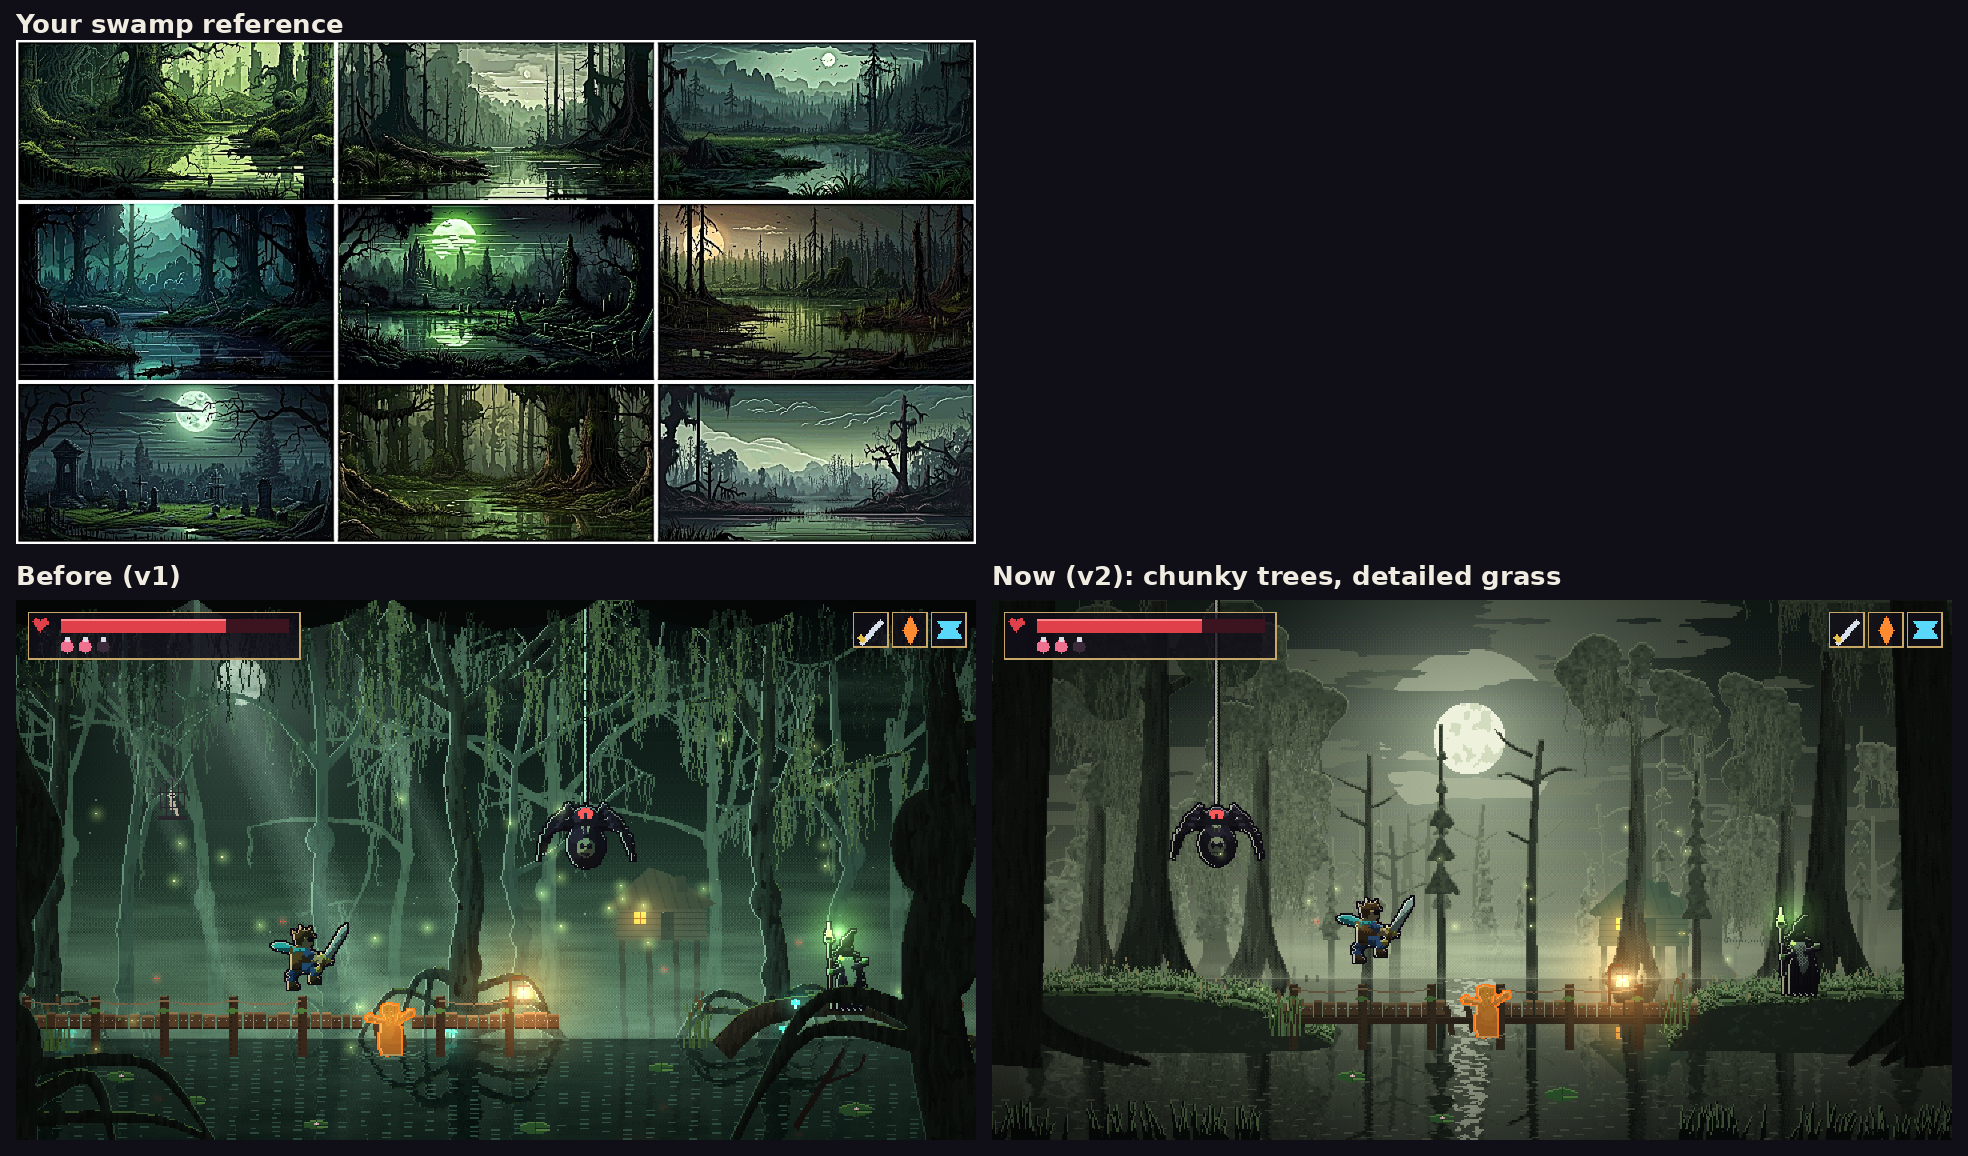
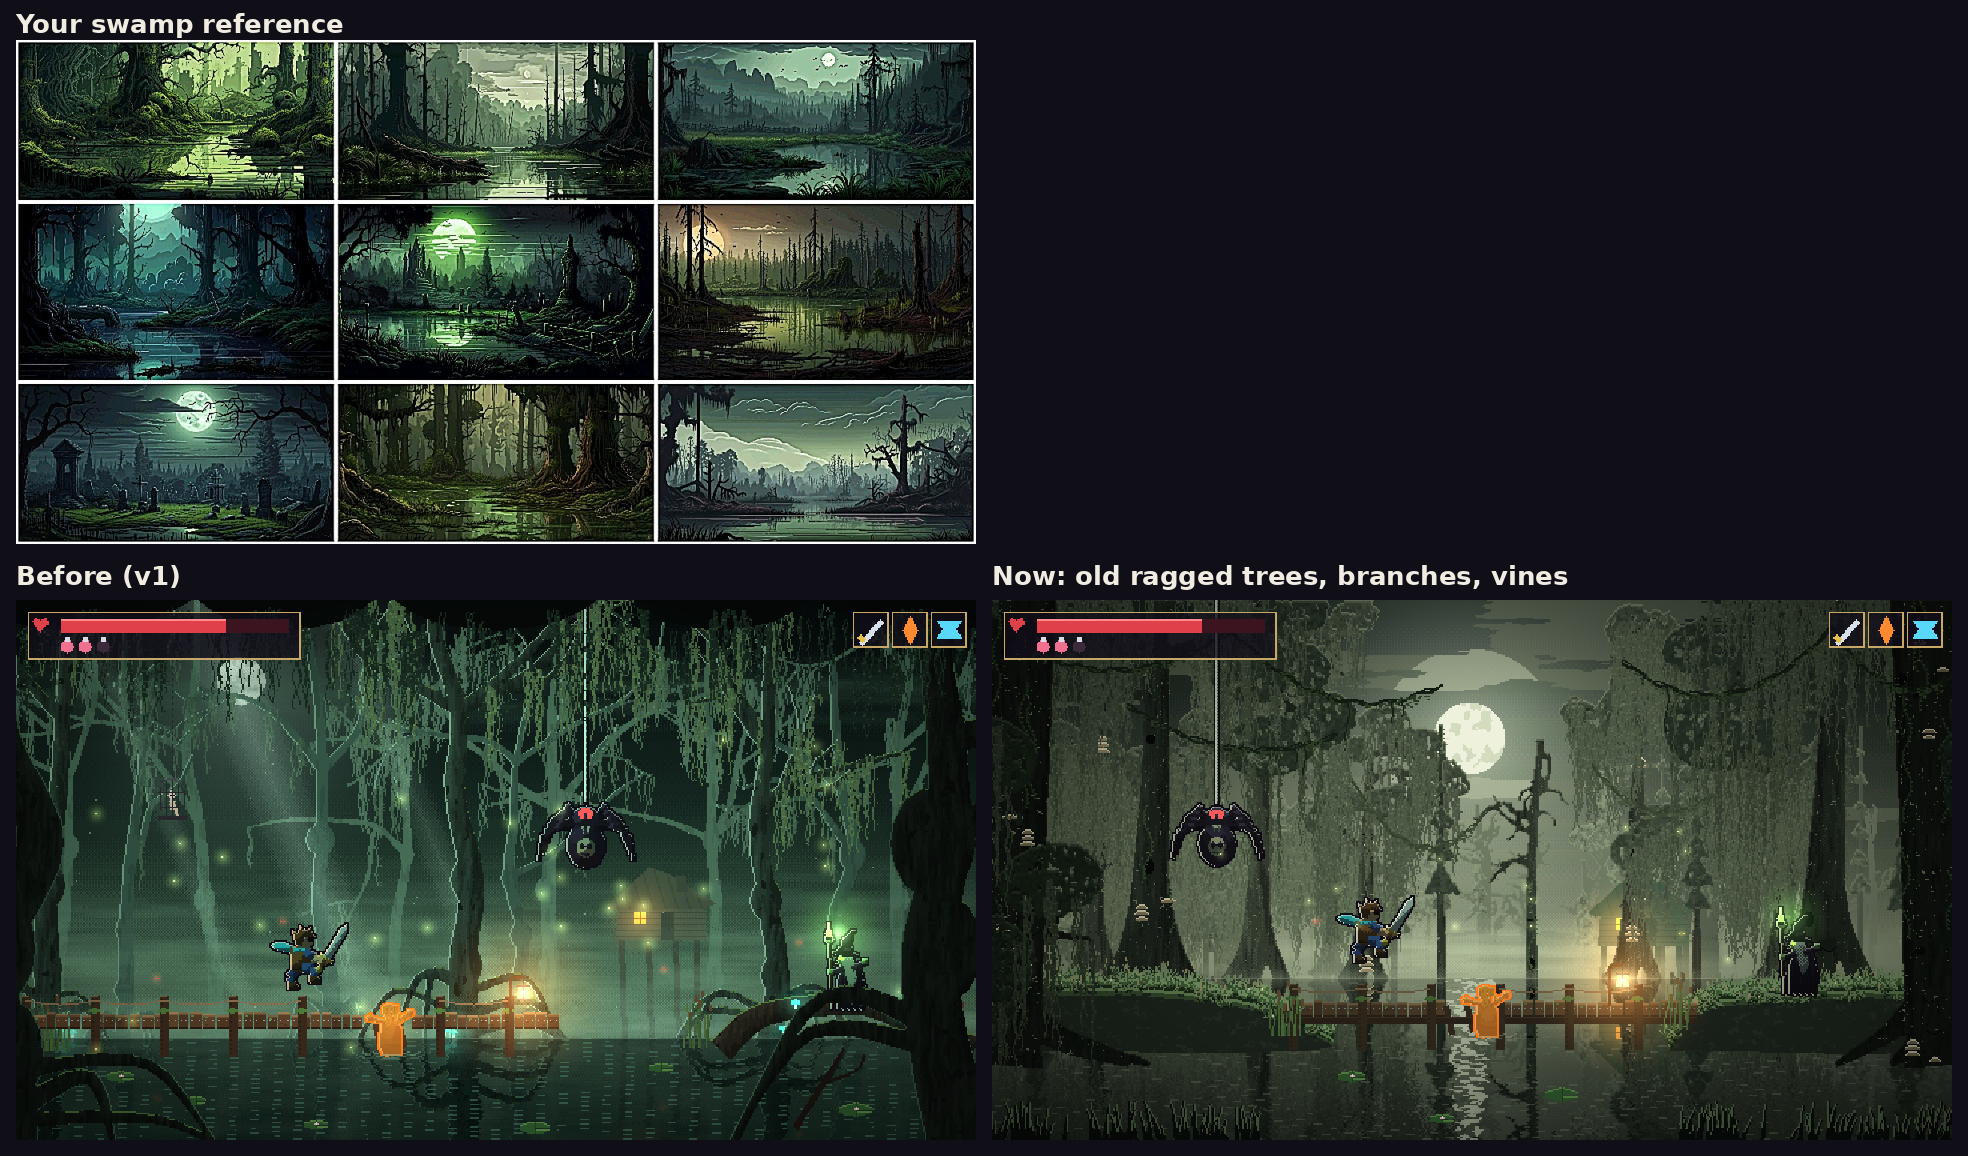
ART13b: swamp example, more crooked branches, ragged crowns, old trunks (knots, burls, shelf mushrooms, lichen), lianas and ivy
Claude-Session: https://claude.ai/code/session_018E1RbT7Agev2Psz4WcAtF7

Changed region(s): [[0.4959, 0.4671, 0.9919, 0.9031], [0.9609, 0.5917, 0.9919, 0.6228], [0.9299, 0.9031, 0.9609, 0.9343]]

diff --git a/tools/art/final_swamp.py b/tools/art/final_swamp.py
@@ -61,66 +61,177 @@ def pine(x, base, h, w, rng):
     return trunk, clumps
 
 
+def crooked(S, x, y, ang, ln, wd, depth, rng, tips, kink=0.35):
+    """A crooked old branch: bends at every joint, thins out, forks into twigs; records the tips (for clumps, moss)."""
+    pts = [(x, y)]
+    a = ang
+    for k in range(4):
+        a += rng.normal(0, kink)
+        x, y = x + math.cos(a) * ln / 4, y + math.sin(a) * ln / 4
+        pts.append((x, y))
+    S.append(taper(pts, max(1.0, wd), max(0.8, wd * 0.35), 4))
+    tips.append((x, y))
+    if depth > 0:
+        for _ in range(int(rng.integers(2, 4))):
+            j = int(rng.integers(1, 4))
+            crooked(S, pts[j][0], pts[j][1], a + rng.choice([-1, 1]) * rng.uniform(0.35, 1.0) - 0.15, ln * rng.uniform(0.45, 0.7),
+                    wd * 0.55, depth - 1, rng, tips, kink)
+    elif rng.random() < 0.5:                                     # a dead twig flicking off the end
+        S.append(taper([(x, y), (x + math.cos(a + 0.6) * 4, y + math.sin(a + 0.6) * 4)], 1.0, 0.8, 2))
+
+
+def stubs(S, x, base, h, w, rng, n):
+    """Broken-off branch stumps along an old trunk."""
+    for _ in range(n):
+        y = base - h * rng.uniform(0.2, 0.85)
+        sd = rng.choice([-1, 1])
+        ln = w * rng.uniform(0.6, 1.4)
+        S.append(taper([(x, y), (x + sd * ln, y - ln * rng.uniform(0.1, 0.6))], w * rng.uniform(0.25, 0.4), w * 0.18, 2))
+
+
 def snag(x, base, h, w, rng):
-    """A dead tree: a tall bare trunk, a broken top and a few short stubby branches."""
+    """A dead tree: a tall bare trunk, a broken top, crooked dead branches and stumps."""
     S = [taper([(x, base + 2), (x + rng.normal(0, 1.2), base - h * 0.5), (x + rng.normal(0, 2.0), base - h)], w, max(1.0, w * 0.4), 4)]
-    for k in range(int(rng.integers(2, 5))):
-        y = base - h * rng.uniform(0.45, 0.95)
-        s = rng.choice([-1, 1])
-        ln = rng.uniform(4, 12) * (w / 3 + 0.6)
-        S.append(taper([(x, y), (x + s * ln * 0.6, y - ln * 0.3), (x + s * ln, y - ln * rng.uniform(0.2, 0.8))], max(1.0, w * 0.4), 0.8, 3))
+    tips = []
+    for k in range(int(rng.integers(3, 6))):
+        y = base - h * rng.uniform(0.4, 0.95)
+        sd = rng.choice([-1, 1])
+        crooked(S, x, y, -math.pi / 2 + sd * rng.uniform(0.6, 1.3), h * rng.uniform(0.12, 0.25), max(1.2, w * 0.45), 1, rng, tips, 0.5)
+    stubs(S, x, base, h, w, rng, 2)
     return S
 
 
 def cypress(x, base, h, w, rng):
-    """A bald cypress: a trunk flaring wide at the water (buttress), knees around it, a ragged crown of clumps on a few
-    upswept limbs, moss hanging from the clumps."""
+    """An old bald cypress: a trunk flaring wide at the water, knees around it, many crooked limbs and twigs, a ragged
+    crown of clumps with gaps, moss hanging everywhere."""
     trunk = [taper([(x - w * 1.6, base + 3), (x - w * 0.5, base - h * 0.12), (x, base - h * 0.5), (x + rng.normal(0, w * 0.2), base - h)],
                    w * 2.6, w * 0.5, 6)]
     trunk.append(taper([(x + w * 1.6, base + 3), (x + w * 0.4, base - h * 0.14), (x, base - h * 0.4)], w * 1.2, w * 0.4, 4))
     for k in range(int(rng.integers(2, 5))):                     # cypress knees poking out of the water
         kx = x + rng.uniform(-w * 4, w * 4)
         trunk.append(taper([(kx, base + 3), (kx + rng.normal(0, 0.5), base - rng.uniform(2, 6))], rng.uniform(2, 3.4), 1, 2))
-    clumps, anchors = [], []
-    for k in range(int(rng.integers(3, 6))):
-        t = rng.uniform(0.55, 1.0)
+    stubs(trunk, x, base, h, w, rng, int(rng.integers(2, 5)))
+    clumps, anchors, tips = [], [], []
+    for k in range(int(rng.integers(5, 9))):
+        t = rng.uniform(0.4, 1.0)
         y = base - h * t
-        s = rng.choice([-1, 1])
-        ln = w * rng.uniform(2.5, 6)
-        ex, ey = x + s * ln, y - ln * rng.uniform(0.3, 0.8)
-        trunk.append(taper([(x, y + 4), (x + s * ln * 0.5, y - ln * 0.2), (ex, ey)], w * 0.65, 1.8, 4))
-        # an irregular crown: several small clumps scattered along the limb, not one umbrella
-        for j in range(int(rng.integers(3, 6))):
-            tt = rng.uniform(0.35, 1.0)
-            cx_ = x + s * ln * tt + rng.normal(0, w * 0.6)
-            cy_ = y + 2 - ln * (0.2 + 0.4 * tt) + rng.normal(0, w * 0.8)
-            r = w * rng.uniform(1.0, 2.0)
-            clumps.append(ell(cx_, cy_, r * rng.uniform(1.0, 1.5), r, rng.uniform(-30, 30), 14))
-            anchors += [(cx_ + rng.uniform(-r, r), cy_ + r * 0.6) for _ in range(3)]
-    for j in range(int(rng.integers(3, 6))):                     # the top: a ragged spire of clumps
+        sd = rng.choice([-1, 1])
+        crooked(trunk, x, y, -math.pi / 2 + sd * rng.uniform(0.5, 1.35), w * rng.uniform(3, 7), w * 0.6, 2, rng, tips)
+    for (tx, ty) in tips:                                        # ragged clumps on some branch ends, bare twigs on others
+        anchors.append((tx, ty + 1))
+        if rng.random() < 0.6:
+            r = w * rng.uniform(0.9, 1.8)
+            clumps.append(ell(tx + rng.normal(0, 1), ty + rng.normal(0, 1), r * rng.uniform(1.0, 1.6), r, rng.uniform(-30, 30), 14))
+            anchors += [(tx + rng.uniform(-r, r), ty + r * 0.6) for _ in range(3)]
+    for j in range(int(rng.integers(2, 5))):                     # the broken top: a few ragged clumps
         cy_ = base - h + j * w * 1.2 - w
-        r = w * rng.uniform(1.2, 2.0) * (0.6 + j * 0.15)
+        r = w * rng.uniform(1.0, 1.8) * (0.6 + j * 0.15)
         clumps.append(ell(x + rng.normal(0, w * 0.8), cy_, r, r * 0.8, 0, 14))
-    anchors += [(x + rng.uniform(-w * 2, w * 2), base - h + w * 3) for _ in range(4)]
     return trunk, clumps, anchors
 
 
 def old_tree(x, base, h, w, rng, side=1):
-    """A huge old swamp tree right in front: a massive trunk with flared buttress roots and thick limbs."""
+    """A huge old swamp tree right in front: a massive gnarled trunk, flared buttress roots, many crooked limbs."""
     S = [taper([(x, base + 6), (x + side * w * 0.2, base - h * 0.4), (x + side * w * 0.5, base - h)], w * 1.3, w * 0.7, 6)]
     for k in range(5):                                             # buttress roots
         s = [-1, -0.5, 0.3, 0.8, 1][k]
         S.append(taper([(x + s * w * 0.3, base - w * rng.uniform(0.6, 1.4)), (x + s * w * 0.9, base - w * 0.3),
                         (x + s * w * rng.uniform(1.4, 2.4), base + 6)], w * rng.uniform(0.35, 0.55), 3, 5))
-    clumps, anchors = [], []
-    for k in range(3):
-        y = base - h * rng.uniform(0.55, 0.95)
-        ln = w * rng.uniform(2.0, 3.4)
-        ex, ey = x - side * ln, y - ln * 0.5
-        S.append(taper([(x, y), (x - side * ln * 0.5, y - ln * 0.15), (ex, ey)], w * 0.42, w * 0.15, 5))
-        clumps.append(ell(ex, ey, ln * 0.7, ln * 0.4, 0, 18))
-        anchors += [(ex + rng.uniform(-ln * 0.6, ln * 0.6), ey + ln * 0.25) for _ in range(10)]
+    stubs(S, x + side * w * 0.2, base, h, w, rng, 3)
+    clumps, anchors, tips = [], [], []
+    for k in range(5):
+        y = base - h * rng.uniform(0.4, 0.95)
+        crooked(S, x + side * w * 0.3, y, math.pi * (0.5 + side * 0.5) * -1 + (-0.9 if side > 0 else 0.9) + rng.normal(0, 0.25),
+                w * rng.uniform(2.2, 3.6), w * 0.42, 2, rng, tips, 0.3)
+    for (tx, ty) in tips:
+        anchors.append((tx, ty))
+        if rng.random() < 0.55:
+            r = w * rng.uniform(0.5, 0.9)
+            clumps.append(ell(tx, ty, r * 1.4, r, rng.uniform(-20, 20), 16))
+            anchors += [(tx + rng.uniform(-r, r), ty + r * 0.5) for _ in range(5)]
     return S, clumps, anchors
+
+
+def old_details(img, m, x_hint, seed, d):
+    """Signs of age on near trunks: knot holes, burls, shelf mushrooms, pale lichen speckles."""
+    rng = np.random.default_rng(seed)
+    ys, xs = np.nonzero(m & ~_dilate(~m, 3))
+    if not len(xs):
+        return
+    for _ in range(int(len(xs) / 900) + 2):
+        i = rng.integers(len(xs))
+        x, y = xs[i], ys[i]
+        kind = rng.random()
+        if kind < 0.35:                                            # a knot hole
+            fill(img, mask([ell(x, y, rng.uniform(1.5, 3.5), rng.uniform(2.5, 5), 0, 12)]) & m, NEAR * 0.5)
+            img[max(0, y - 4), x] = img[max(0, y - 4), x] * 1.3
+        elif kind < 0.65:                                          # shelf mushrooms, stacked
+            for k in range(int(rng.integers(1, 4))):
+                sh = mask([ell(x + 2, y + k * 4, rng.uniform(3, 5), 1.4, 0, 12)]) & (YY <= y + k * 4)
+                fill(img, sh, mix(C('#a89a74'), NEAR, 0.4 * d))
+                fill(img, sh & ~np.roll(sh, 1, 0), mix(C('#d8ccaa'), SKY_LO, 0.2))
+        else:                                                      # a burl
+            bm = mask([ell(x, y, rng.uniform(3, 6), rng.uniform(3, 5), 0, 14)]) & m
+            fill(img, bm, img[y, x] * 1.15 if 0 <= y < H and 0 <= x < W else NEAR)
+            fill(img, bm & ~np.roll(bm, -1, 0), NEAR * 0.6)
+    lich = m & (fbm(XX / 2, YY / 2, 2, seed + 5) > 0.82)
+    fill(img, lich, mix(C('#7a8a64'), SKY_LO, 0.25), 0.7)
+
+
+def hanging_vines(img, pairs, col, leaf, seed, thick=2):
+    """Lianas sagging between branches: two twisting strands, leaf clusters along them, loose ends dangling."""
+    rng = np.random.default_rng(seed)
+    col, leaf = np.asarray(col), np.asarray(leaf)
+    for (a, b) in pairs:
+        sag = rng.uniform(16, 38)
+        n = int(abs(b[0] - a[0]) + abs(b[1] - a[1])) * 2 + 2
+        for strand in range(2):
+            ph = rng.uniform(0, 6)
+            for k in range(n + 1):
+                t = k / n
+                x = a[0] + (b[0] - a[0]) * t
+                y = a[1] + (b[1] - a[1]) * t + sag * 4 * t * (1 - t) + 1.4 * math.sin(t * 40 + ph) * (strand * 2 - 1)
+                xi, yi = int(x), int(y)
+                for dy in range(thick if strand == 0 else 1):
+                    if 0 <= xi < W and 0 <= yi + dy < H:
+                        img[yi + dy, xi] = col * (0.85 if strand else 1.0)
+        for k in range(int(n / 9)):                               # leaf clusters
+            t = rng.uniform(0.05, 0.95)
+            x = a[0] + (b[0] - a[0]) * t
+            y = a[1] + (b[1] - a[1]) * t + sag * 4 * t * (1 - t)
+            for _ in range(int(rng.integers(3, 7))):
+                lx, ly = int(x + rng.normal(0, 2.2)), int(y + abs(rng.normal(1.5, 2)))
+                if 0 <= lx < W - 1 and 0 <= ly < H:
+                    img[ly, lx:lx + 2] = leaf * rng.uniform(0.85, 1.15)
+        for k in range(int(rng.integers(1, 4))):                   # loose ends hanging down
+            t = rng.uniform(0.15, 0.85)
+            x = int(a[0] + (b[0] - a[0]) * t)
+            y = int(a[1] + (b[1] - a[1]) * t + sag * 4 * t * (1 - t))
+            for j in range(int(rng.uniform(10, 34))):
+                xx = int(x + math.sin(j / 5) * 1.2)
+                if 0 <= xx < W - 1 and 0 <= y + j < H:
+                    img[y + j, xx] = col
+                    if j % 4 == 2:
+                        img[y + j, xx + 1] = leaf
+
+
+def climbing_vines(img, m, col, leaf, seed, n=3):
+    """Ivy winding up a trunk."""
+    rng = np.random.default_rng(seed)
+    ys, xs = np.nonzero(m)
+    if not len(xs):
+        return
+    for _ in range(n):
+        i = rng.integers(len(xs))
+        x0, y0 = xs[i], ys[i]
+        ph = rng.uniform(0, 6)
+        for k in range(int(rng.uniform(30, 90))):
+            y = y0 - k
+            x = int(x0 + 3 * math.sin(k / 6 + ph))
+            if 0 <= y < H and 0 <= x < W and m[y, x]:
+                img[y, x] = col
+                if k % 3 == 0 and x + 1 < W:
+                    img[y, x + 1] = leaf
 
 
 # ============================================================================================== shading
@@ -188,14 +299,20 @@ def layer(img, items, d, seed, kind_weights, moss_on=True, rim=0.6, leaf_tint=C(
             anchors += a
     col = depth_col(d)
     tm = mask(trunks)
-    cm = leafy(mask(clumps), seed) if clumps else np.zeros((H, W), bool)
+    if d > 0.4:
+        tm = tm | (leafy(tm, seed + 9, 0.35) & _dilate(tm, 1))            # rough, uneven bark edges
+    cm = leafy(mask(clumps), seed, 1.0) if clumps else np.zeros((H, W), bool)
+    cm &= ~((fbm(XX / 3.5, YY / 3.5, 2, seed + 4) < 0.3) & ~_dilate(~cm, 2))  # gaps in the crowns
     fill(img, tm, col * 0.95)
     if d > 0.5:
         bark_dark(img, tm, col * 1.1, seed)
     foliage_shade(img, cm, mix(col, leaf_tint, 0.3 * d), seed, d)
+    if d > 0.45:
+        old_details(img, tm, 0, seed + 3, d)
+        climbing_vines(img, tm, mix(col, C('#3a5a30'), 0.5), mix(col, C('#5a7a44'), 0.5), seed + 6, 4)
     rim_light(img, tm | cm, rim * (1 - d * 0.4))
     if moss_on and anchors:
-        moss(img, anchors, mix(col, C('#6a7a5a'), 0.35), mix(col, C('#8a9a74'), 0.4), seed, 1.0, int(18 + 40 * d))
+        moss(img, anchors, mix(col, C('#6a7a5a'), 0.35), mix(col, C('#8a9a74'), 0.4), seed, 1.6, int(30 + 70 * d))
     return tm | cm
 
 
@@ -339,11 +456,20 @@ def scene():
     for (x, side, sd) in ((-8, 1, 61), (650, -1, 62)):
         S, cl_, an = old_tree(x + side * 10, 304, 330, 48, rng2, side)
         tm = mask(S)
+        tm = tm | (leafy(tm, sd + 9, 0.35) & _dilate(tm, 1))
         bark_dark(img, tm, C('#141a14'), sd)
-        cm = leafy(mask(cl_), sd)
+        old_details(img, tm, x, sd + 3, 0.95)
+        climbing_vines(img, tm, C('#1e2e1a'), C('#2e4426'), sd + 6, 6)
+        cm = leafy(mask(cl_), sd, 1.0)
+        cm &= ~((fbm(XX / 3.5, YY / 3.5, 2, sd + 4) < 0.3) & ~_dilate(~cm, 2))
         foliage_shade(img, cm, C('#141e14'), sd, 0.95)
         rim_light(img, tm | cm, 0.35, width=1)
-        moss(img, an, C('#2a3426'), C('#3a4632'), sd, 1.3, 80)
+        moss(img, an, C('#2a3426'), C('#3a4632'), sd, 2.0, 110)
+    # lianas sagging between the trees, near and far
+    hanging_vines(img, [((20, 30), (160, 20)), ((160, 20), (300, 56)), ((420, 40), (560, 18)), ((560, 18), (640, 50)),
+                        ((90, 70), (230, 90))], C('#141e14'), C('#2a3a24'), 71)
+    hanging_vines(img, [((240, 120), (330, 140)), ((400, 110), (480, 130))], mix(depth_col(0.55), C('#3a5030'), 0.3),
+                  mix(depth_col(0.55), C('#5a7044'), 0.3), 72)
     rng4 = np.random.default_rng(23)
     for cxg in (20, 90, 150, 480, 560, 620):                             # dark grass clumps along the bottom corners
         for _ in range(26):
